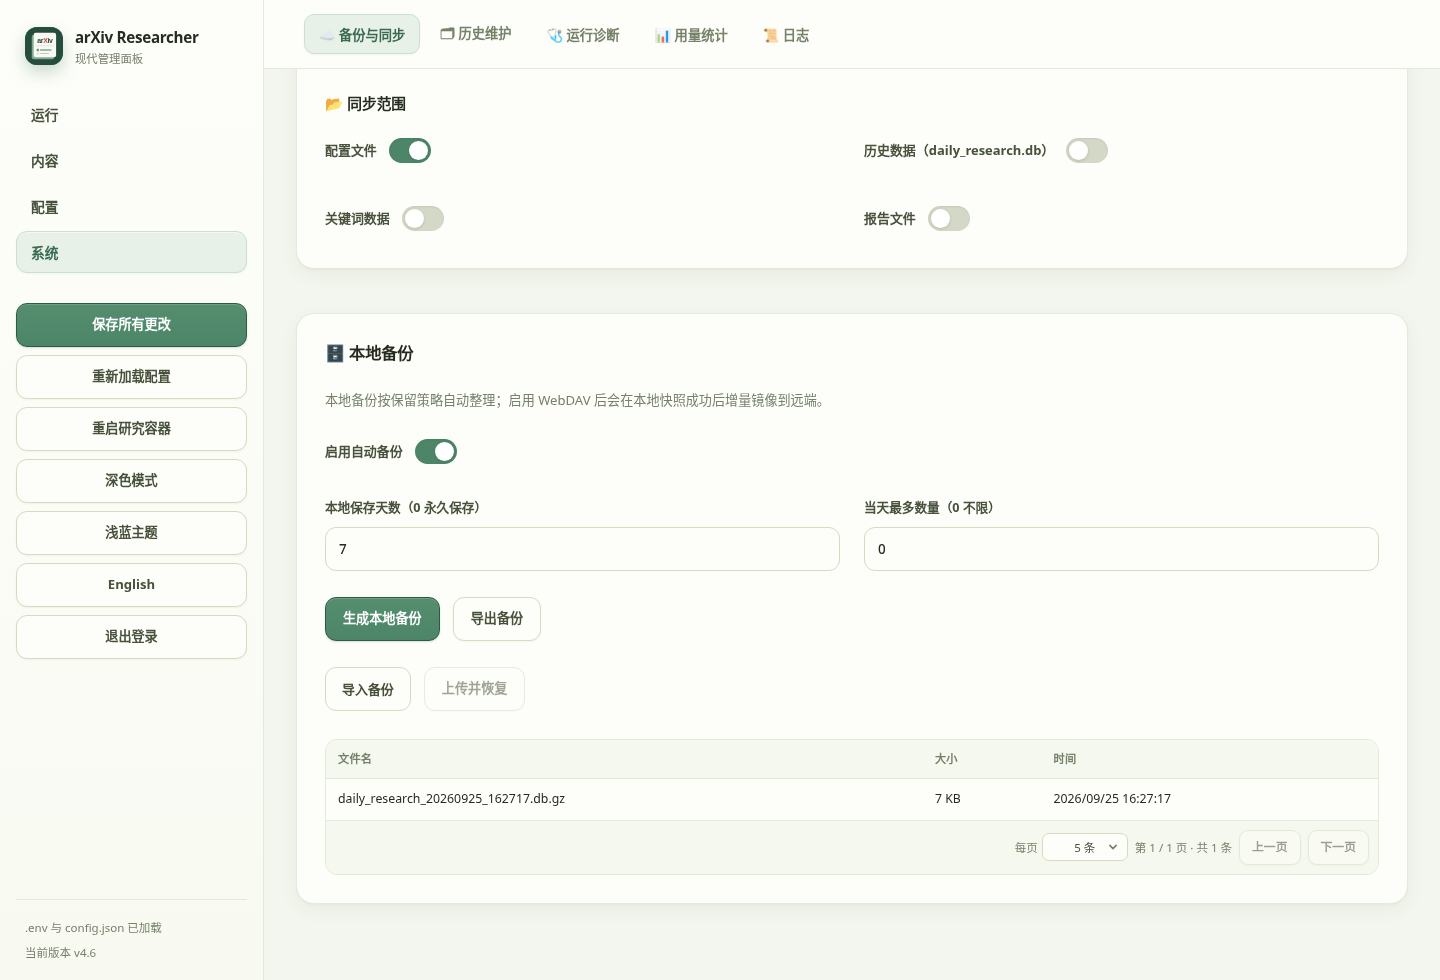
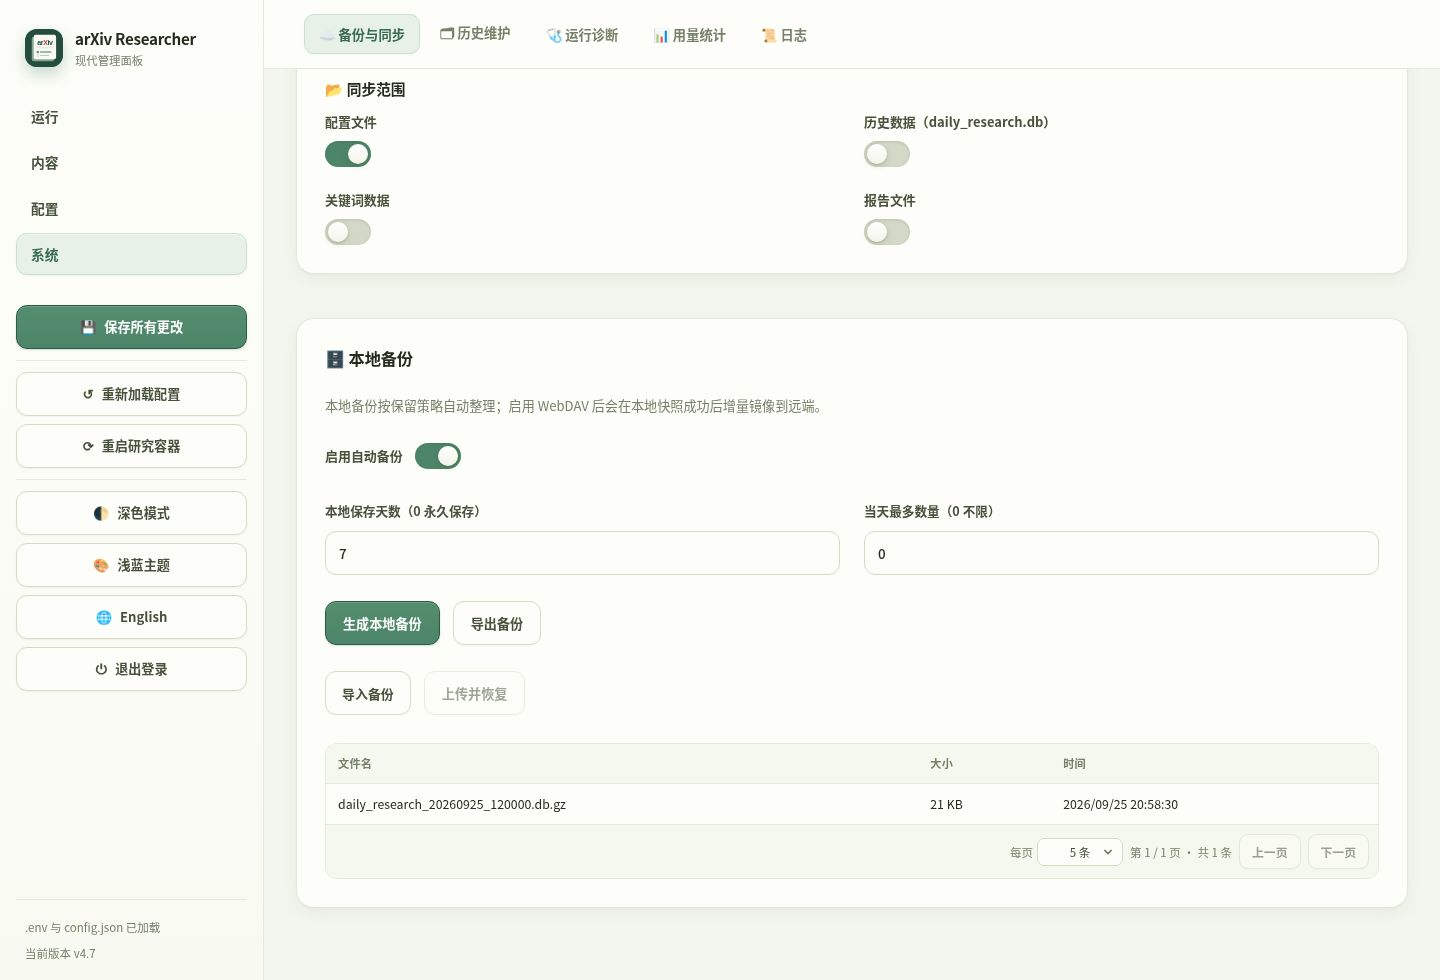
docs(release): stage v4.7 changelog and screenshots

diff --git a/CHANGELOG.md b/CHANGELOG.md
@@ -6,6 +6,28 @@
 
 ---
 
+## 🚀 v4.7 — 2026-09-25
+
+### ✨ 界面与交互
+
+1. **开关组件重设计** — 开关加大并统一四个主题的配色，悬停时滑块轻微放大，按住时沿滑动方向拉长、松开后回弹；键盘聚焦显示品牌色聚焦环，禁用状态明确减淡。网格布局中的开关改为“说明文字在上、开关在下”，与输入框、下拉框逐行对齐，消除此前与数字输入框混排时的错位。
+2. **按钮反馈与侧边栏** — 主要/次要/危险按钮增加按压下沉效果与键盘聚焦环；“保存所有更改”在保存期间显示旋转指示并临时禁用，避免重复提交。侧边栏按钮按用途分为配置操作、外观与语言两组，以细分隔线区隔，并为每个按钮配上图标；深色模式、浅蓝主题与语言切换的标签更新逻辑保持不变。
+3. **滑块与卡片布局** — Temperature、相似度阈值等范围滑块改用品牌色填充轨道（数值右侧实时显示当前值），取代浏览器默认样式；第三方服务卡片（OpenAlex、Semantic Scholar）改为“标题在左、启用开关在右”的头行布局，说明文字在下方整行展开。
+4. **通知设置重新分组** — “启用通知、展示数量”与三个事件开关分别成行排列，网格对齐不再错落。
+
+### 🐛 修复与优化
+
+1. **历史任务状态去抖** — 历史维护页每次轮询重复执行的队列快照与多条 SQL 现在按 1.5 秒窗口复用，任务提交、停止或清除后立即失效，轮询开销显著下降。
+2. **日志与来源列表缓存** — 运行状态卡活跃期间反复递归扫描日志树改为 1.5 秒去抖；检索页的来源筛选列表改为 30 秒缓存，不再每次检索都对最大表做去重扫描。
+3. **备份导出流式化** — 数据库导出改为先写入临时文件再流式响应，结束后自动清理，避免大数据库在内存中残留整份压缩包字节；gzip 压缩级别由 9 调整为 4，报告预览等大 HTML 的压缩 CPU 开销减半，体积差异可忽略。
+4. **环境判断与版本读取** — 容器/源码环境判定在进程内只解析一次；本地版本号按文件签名缓存，设置页加载不再反复读取 VERSION 文件。
+
+### 📚 文档与升级
+
+1. 界面截图随新版开关、侧边栏与滑块更新。配置兼容无需迁移；新增缓存均为进程内短时窗口，不影响数据一致性。
+
+---
+
 ## 🚀 v4.6 — 2026-09-25
 
 ### ✨ 新功能
